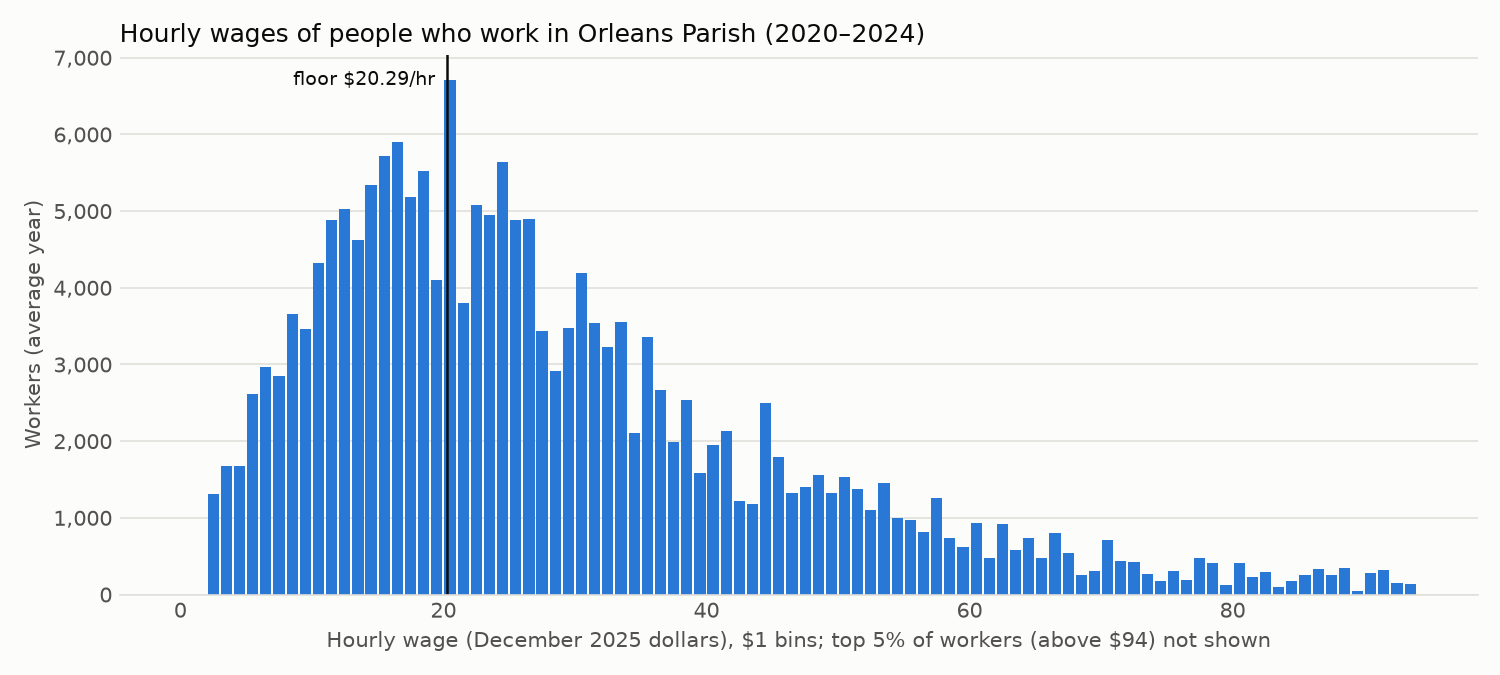
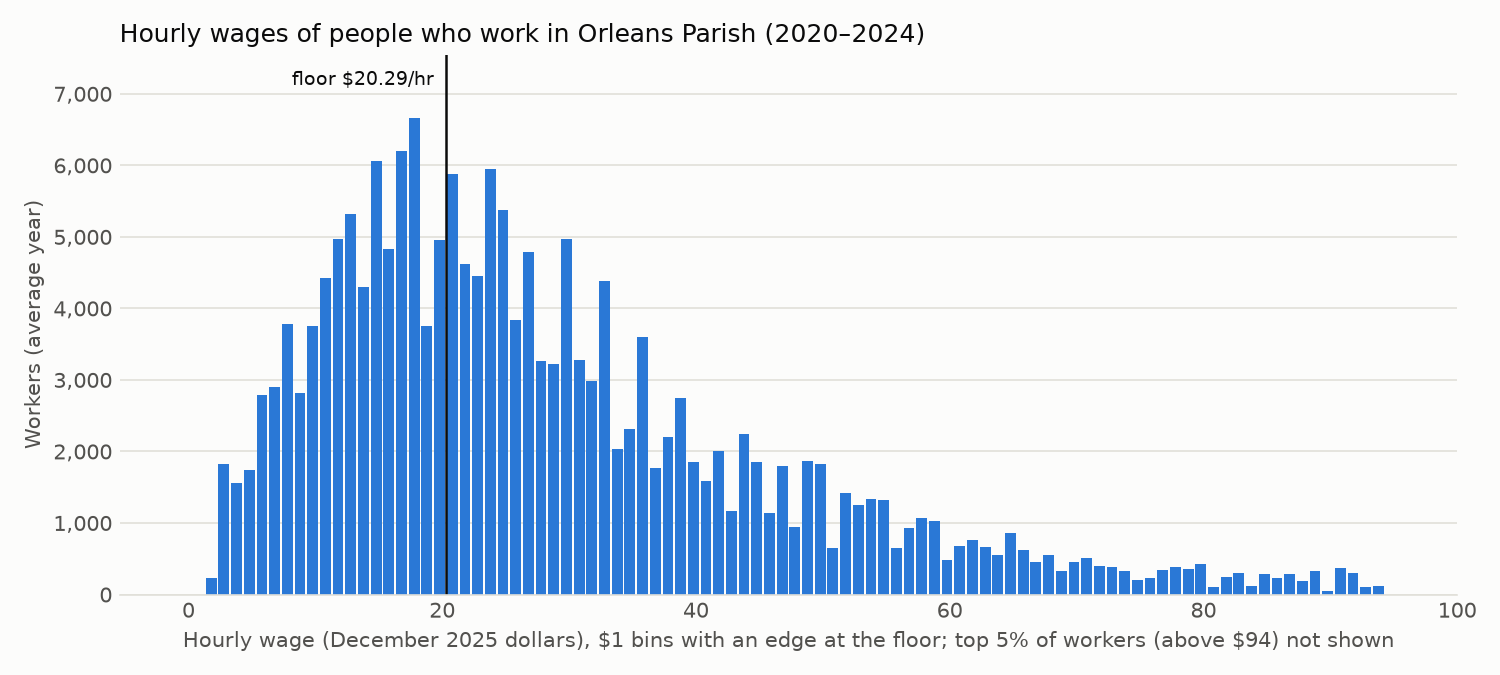
report: fix review findings (unclipped GOS axis, derived wording, floor-anchored bins)
Claude-Session: https://claude.ai/code/session_01WkMnkM78V3hXWVEUPjjTwT

diff --git a/src/nola_lw/report/results.py b/src/nola_lw/report/results.py
@@ -97,8 +97,8 @@ def headline(ctx: dict) -> tuple[str, list[str]]:
     notes: list[str] = []
 
     text = (f"In {_years(p)} (an average year), {f.n(*ps['below'])} of the {f.n(*ps['workers'])} wage and salary "
-            f"workers whose job is in Orleans Parish ({f.pct(*ps['share_below'])}) earned less than the MIT living wage "
-            f"for one adult with no children, ${ctx['floor']:.2f} an hour in {charts.price_month(cfg)} dollars. "
+            f"workers whose job is in Orleans Parish ({f.pct(*ps['share_below'])}) earned less than the MIT living-wage "
+            f"floor ({_household_label(cfg['mit']['floor_type'])}), ${ctx['floor']:.2f} an hour in {charts.price_month(cfg)} dollars. "
             f"Raising each of them to that floor for the hours they actually work would cost {f.usd(*ps['total_gap'])} "
             f"a year. That is {f.pct(tot['gap_gdp'], tot['gap_gdp_se'])} of Orleans GDP, "
             f"{f.pct(tot['gap_comp'], tot['gap_comp_se'])} of employee compensation and "
@@ -170,10 +170,11 @@ def headline(ctx: dict) -> tuple[str, list[str]]:
 
     sens = ctx["sensitivities"]
     hr, hl = _row(sens, "sensitivity", "hours_rule"), _row(sens, "sensitivity", "headline")
-    beyond = abs(hr["total_gap"] - hl["total_gap"]) > z * hl["total_gap_se"]
+    diff, moe = hr["total_gap"] - hl["total_gap"], z * hl["total_gap_se"]
     text += (f"Measured instead as annual earnings against the floor × {cfg['mit']['hours_full_time']:,} hours, the gap is "
-             f"{f.usd(hr['total_gap'], hr['total_gap_se'])}"
-             + (", well beyond the headline MOE." if beyond else ", within the headline MOE."))
+             f"{f.usd(hr['total_gap'], hr['total_gap_se'])}, {f.usd(abs(diff))} {'above' if diff > 0 else 'below'} "
+             f"the headline: " + (f"{abs(diff) / moe:.1f} times the headline's MOE." if abs(diff) > moe
+                                  else "within the headline's MOE."))
     return text, notes
 
 
@@ -259,11 +260,12 @@ def _tables(ctx: dict) -> str:
         a, b = _row(p["capacity"], "line", line), _row(s["capacity"], "line", line)
         ind = _row(p["by_industry"], "bea_line", line)
         gap_s = f.usd(b["gap"], b["gap_se"]) if b["gap"] is not None else "no sample"
+
+        def cell(c, denom):
+            return "no sample" if a["gap"] is None else rat(a, c) if a[denom] is not None else "suppressed"
         rows.append([label, f.n(ind["below"], ind["below_se"]) if ind else "no sample",
                      f.usd(a["gap"], a["gap_se"]) if a["gap"] is not None else "no sample", gap_s,
-                     rat(a, "gap_comp") if a["comp"] is not None else "suppressed",
-                     rat(a, "gap_gos") if a["gos"] is not None else "suppressed",
-                     rat(a, "gap_gos_low") if a["gos_low"] is not None else "suppressed",
+                     cell("gap_comp", "comp"), cell("gap_gos", "gos"), cell("gap_gos_low", "gos_low"),
                      f"{a['self_funding']} / {a['self_funding_low']}",
                      f"{b['self_funding']} / {b['self_funding_low']}"])
     out.append(_table(["Industry (CAGDP2)", f"Below {yp}", f"Gap {yp}", f"Gap {ys}", f"Gap ÷ comp {yp}",
@@ -322,12 +324,12 @@ def _tables(ctx: dict) -> str:
 
 
 def _caveats(ctx: dict) -> str:
-    cfg = ctx["cfg"]
+    cfg, sb = ctx["cfg"], ctx["survey_bea"]
     return (
         "\n## Caveats\n\n"
         "- **Place of work.** Every worker measure counts jobs located in Orleans Parish, wherever the worker lives, "
-        "to match BEA's place-of-work GDP and compensation. Residence enters only the leakage table and the "
-        "price pass-through allocator.\n"
+        "to match BEA's place-of-work GDP and compensation. Residence enters only the leakage table, the "
+        "Louisiana-residents-only sensitivity and the price pass-through allocator.\n"
         f"- **Full-time basis.** MIT thresholds assume {cfg['mit']['hours_full_time']:,} hours a year. The headline "
         "counts actual hours, so a part-time worker above the hourly floor can still fall far short in annual income; "
         "the hours-rule sensitivity (table 7; its effect is stated in the headline) and the annual household "
@@ -337,10 +339,13 @@ def _caveats(ctx: dict) -> str:
         "- **GOS is modeled**, not published for counties: county GDP − compensation − GDP × Louisiana's net-tax "
         "ratio for the industry. The upper bound includes depreciation and proprietors' income, so it overstates "
         "distributable profit; the lower bound subtracts the national depreciation share by industry.\n"
-        "- **Survey vs. BEA.** Survey wages run below BEA wage disbursements (headline); if the survey under-reports "
-        "pay, the gap is overstated. BEA also counts pay the survey universe misses (see checkpoint.md).\n"
+        + (f"- **Survey vs. BEA.** Survey wages run {abs(sb['pct']):.1%} below BEA wage disbursements; if the survey "
+           "under-reports pay, the gap is overstated." if sb["pct"] < 0 else
+           f"- **Survey vs. BEA.** Survey wages run {sb['pct']:.1%} above BEA wage disbursements, so survey "
+           "under-reporting is not evident in the total.")
+        + " BEA also counts pay the survey universe misses (see checkpoint.md).\n"
         f"- **Dollars.** Wages and BEA values are in {charts.price_month(cfg)} dollars (MIT's price basis), converted by "
-        f"CPI-U South ({cfg['cpi']['series']}); BEA values year by year before averaging.\n"
+        f"CPI series {cfg['cpi']['series']}; BEA values year by year before averaging.\n"
         "- **MOEs** are 90% (replicate weights, successive-difference formula). Ratios' MOEs reflect survey error "
         "in the gap only; BEA totals are treated as fixed.\n"
     )
@@ -424,8 +429,8 @@ def qa_md(ctx: dict) -> str:
     s += (f"## Crosswalk coverage\n\n{c['pairs_in_data']:,} distinct (COW, NAICSP) pairs in the universe (outliers "
           f"included), all mapped to exactly one BEA line ({c['crosswalk_rows']:,} crosswalk rows; `apply_crosswalk` "
           "raises on any missing or duplicate pair).\n\n")
-    s += (f"## GOS method validation\n\nLouisiana: max |SAGDP2 − SAGDP4 − SAGDP3 − SAGDP7| over line 1 and the 20 "
-          f"industry lines, {_years(ctx['windows']['pool'])}: ${q['gos_resid']:,.0f} (tolerance "
+    s += (f"## GOS method validation\n\nLouisiana: max |SAGDP2 − SAGDP4 − SAGDP3 − SAGDP7| over line 1 and the "
+          f"{len(ctx['labels'])} industry lines, {_years(ctx['windows']['pool'])}: ${q['gos_resid']:,.0f} (tolerance "
           f"${cfg['capacity']['gos_validation_tol_usd']:,.0f}).\n\n")
     sup = q["suppressed"]
     s += "## Industry-years with suppressed BEA cells\n\n"

diff --git a/tests/test_report.py b/tests/test_report.py
@@ -1,3 +1,5 @@
+import functools
+
 import polars as pl
 
 from nola_lw.analysis import capacity as cap
@@ -8,7 +10,8 @@ from nola_lw.report import charts
 from nola_lw.report.results import headline, write_results
 
 CFG = load_config()
-LABELS = {"79": "Accommodation and food services", "83": "Government and government enterprises"}
+LABELS = {"3": "Agriculture, forestry, fishing and hunting", "79": "Accommodation and food services",
+          "83": "Government and government enterprises"}
 FLOOR = 20.0
 THRESHOLDS = {k: FLOOR + i for i, k in enumerate(HOUSEHOLD_KEYS)}
 
@@ -19,7 +22,8 @@ def _universe(early_wage: float, late_wage: float) -> pl.DataFrame:
     rows = []
     for y in range(2020, 2025):
         wage = early_wage if y < 2022 else late_wage
-        for line, cls, res in [("79", "private", "orleans"), ("83", "public", "other_la")]:
+        for line, cls, res in [("79", "private", "orleans"), ("83", "public", "other_la"),
+                               ("3", "private", "out_of_state")]:
             rows.append({"year": str(y), "bea_line": line, "cow_class": cls, "residence": res, "src": "la",
                          "household": HOUSEHOLD_KEYS[0], "wage_hr": wage, "hours": 2000.0, "earnings": wage * 2000})
     u = pl.DataFrame(rows)
@@ -27,27 +31,40 @@ def _universe(early_wage: float, late_wage: float) -> pl.DataFrame:
 
 
 def _panel(gos_79: float) -> pl.DataFrame:
+    """Line 3 has suppressed compensation (so null GOS), as in BEA CAINC6N 2024."""
     return pl.DataFrame({
-        "line": ["79", "83", "total", "private"],
-        "gdp": [1e9, 1e9, 2e9, 1e9], "comp": [5e8, 8e8, 1.3e9, 5e8], "tax_ratio": [0.1, 0.0, 0.05, 0.1],
-        "cfc_share": [0.1, None, None, None], "gos": [gos_79, 2e8, 6e8, 4e8], "gos_low": [gos_79, 0.0, 4e8, 3e8],
-        "wages": [None, None, 1e9, None]})
+        "line": ["3", "79", "83", "total", "private"],
+        "gdp": [1e8, 1e9, 1e9, 2e9, 1e9], "comp": [None, 5e8, 8e8, 1.3e9, 5e8],
+        "tax_ratio": [0.1, 0.1, 0.0, 0.05, 0.1], "cfc_share": [0.1, 0.1, None, None, None],
+        "gos": [None, gos_79, 2e8, 6e8, 4e8], "gos_low": [None, gos_79, 0.0, 4e8, 3e8],
+        "wages": [None, None, None, 1e9, None]})
 
 
-def _ctx(early_wage=15.0, late_wage=15.0, gos_79=4e8) -> dict:
+@functools.cache
+def _survey_windows(early_wage: float, late_wage: float) -> dict:
+    """The survey-side (expensive, replicate-weight) window pieces; the GOS-dependent capacity table
+    is rebuilt per call to `_ctx`. gos_tests only reads the total/private/government rows, which
+    `gos_79` doesn't touch."""
     u = _universe(early_wage, late_wage)
     windows = {}
     for name in ("pool", "subset"):
         years = CFG["years"][name]
         sub = year_subset(u, years, CFG["years"]["pool"])
         g = add_floor_gap(sub, FLOOR)
-        pm = _panel(gos_79)
         windows[name] = {"years": years, "summary": floor_summary(g), "by_industry": summary_by(g, "bea_line"),
                          "by_cow": summary_by(g, "cow_class"), "leakage": leakage(g),
                          "households": household_table(sub, THRESHOLDS, CFG["mit"]["hours_full_time"],
                                                        HOUSEHOLD_KEYS[0]),
-                         "capacity": cap.capacity_table(cap.gap_by_line(g, CFG), pm, "83"),
-                         "gos_tests": cap.gos_tests(g, pm, CFG)}
+                         "gap_by_line": cap.gap_by_line(g, CFG), "gos_tests": cap.gos_tests(g, _panel(0.0), CFG)}
+    return {"u": u, "windows": windows}
+
+
+@functools.cache
+def _ctx(early_wage=15.0, late_wage=15.0, gos_79=4e8) -> dict:
+    base = _survey_windows(early_wage, late_wage)
+    u = base["u"]
+    windows = {name: w | {"capacity": cap.capacity_table(w["gap_by_line"], _panel(gos_79), "83")}
+               for name, w in base["windows"].items()}
     s = windows["pool"]["summary"]
     sens = pl.DataFrame([{"sensitivity": n, "variant": n, "workers_below": s["below"][0], "workers_below_se": 1.0,
                           "total_gap": s["total_gap"][0] * k, "total_gap_se": 1.0, "factor": 1.0}
@@ -66,11 +83,25 @@ def test_results_has_all_sections(tmp_path):
               "## 4. Industries and the self-funding test", "## 5. Commuter leakage",
               "## 6. Household types", "## 7. Sensitivities"]:
         assert h in text
+    assert "| Agriculture, forestry, fishing and hunting |" in text
+    assert "suppressed / suppressed" in text
 
 
 def test_headline_names_failing_industries():
     text, _ = headline(_ctx(gos_79=1.0))
     assert "Accommodation and food services (both bounds)" in text
+
+
+def test_headline_expected_failure_that_passes():
+    text, _ = headline(_ctx())
+    assert "Accommodation and food services, which SPEC §6 expected to fail, passes both bounds" in text
+
+
+def test_gap_vs_gos_axis_covers_failing_bar():
+    cap_ = _ctx(gos_79=5e4)["windows"]["pool"]["capacity"]
+    top = cap_.filter(pl.col("line") == "79")["gap_gos"][0]
+    assert top > 1  # fails with positive GOS
+    assert charts.ratio_axis_max(cap_) >= top * 100
 
 
 def test_headline_flags_window_difference():

diff --git a/src/nola_lw/report/charts.py b/src/nola_lw/report/charts.py
@@ -1,4 +1,5 @@
 """SPEC §10.3: gap vs. GOS by industry (bar), and the hourly wage distribution with the floor marked."""
+import math
 import textwrap
 from datetime import datetime
 from pathlib import Path
@@ -36,6 +37,12 @@ def _style(ax) -> None:
     ax.set_axisbelow(True)
 
 
+def ratio_axis_max(capacity: pl.DataFrame) -> float:
+    """x-axis limit (%) for gap_vs_gos: past the 100% fail line and past every bar, so none is clipped."""
+    top = max((v for c in ("gap_gos", "gap_gos_low") for v in capacity[c] if v is not None), default=0.0)
+    return max(105.0, 105.0 * top)
+
+
 def gap_vs_gos(capacity: pl.DataFrame, labels: dict[str, str], cfg, out: Path = OUT) -> Path:
     """Horizontal bars: each industry's gap as % of its modeled GOS, upper and lower bound. A bar
     past 100% fails self-funding. Industries failing on GOS ≤ 0 sit on top, suppressed ones at the
@@ -64,7 +71,7 @@ def gap_vs_gos(capacity: pl.DataFrame, labels: dict[str, str], cfg, out: Path = 
     ax.axvline(100, color=INK, linewidth=1)
     ax.text(99, df.height - 0.5, "gap = GOS: fails beyond ", fontsize=8, color=INK, va="bottom", ha="right")
     ax.set_yticks(list(y), df["label"].to_list(), fontsize=8, color=INK)
-    ax.set_xlim(0, 105)
+    ax.set_xlim(0, ratio_axis_max(df))
     ax.set_xlabel("Floor gap as % of the industry's modeled gross operating surplus (GOS)", color=INK2)
     ax.legend(loc="lower right", frameon=False, fontsize=8, labelcolor=INK2)
     fig.suptitle(f"Floor gap vs. modeled GOS, by industry ({_years(cfg)} average)", x=0.01, ha="left", color=INK)
@@ -83,16 +90,19 @@ def wage_distribution(u: pl.DataFrame, floor: float, cfg, out: Path = OUT) -> Pa
     cum = s["PWGTP"].cum_sum() / s["PWGTP"].sum()
     xmax = s.filter(cum >= r["hist_max_quantile"])["wage_hr"][0]
     shown = s.filter(pl.col("wage_hr") <= xmax)
-    bins = [b * r["hist_bin_usd"] for b in range(int(xmax // r["hist_bin_usd"]) + 2)]
+    bw = r["hist_bin_usd"]
+    start = floor - math.ceil(floor / bw) * bw  # edges anchored at the floor: no bin mixes below and above
+    bins = [start + k * bw for k in range(math.ceil((xmax - start) / bw) + 2)]
     fig, ax = plt.subplots(figsize=(10, 4.5), facecolor=SURFACE)
     _style(ax)
     ax.grid(axis="x", visible=False)
     ax.grid(axis="y", color=GRID, linewidth=0.8)
     ax.hist(shown["wage_hr"], bins=bins, weights=shown["PWGTP"], color=SERIES[0], rwidth=0.85)
     ax.axvline(floor, color=INK, linewidth=1.2)
+    ax.set_ylim(0, ax.get_ylim()[1] * 1.08)  # headroom so the floor label clears the bars
     ax.text(floor, ax.get_ylim()[1] * 0.97, f"floor ${floor:.2f}/hr  ", color=INK, va="top", ha="right", fontsize=9)
     ax.yaxis.set_major_formatter(matplotlib.ticker.FuncFormatter(lambda v, _: f"{v:,.0f}"))
-    ax.set_xlabel(f"Hourly wage ({price_month(cfg)} dollars), ${r['hist_bin_usd']} bins; "
+    ax.set_xlabel(f"Hourly wage ({price_month(cfg)} dollars), ${r['hist_bin_usd']} bins with an edge at the floor; "
                   f"top {1 - r['hist_max_quantile']:.0%} of workers (above ${xmax:.0f}) not shown", color=INK2)
     ax.set_ylabel("Workers (average year)", color=INK2)
     ax.set_title(f"Hourly wages of people who work in Orleans Parish ({_years(cfg)})", loc="left", color=INK)

diff --git a/data/out/results.md b/data/out/results.md
@@ -4,7 +4,7 @@ Place of work, ACS PUMS 2020–2024 (average year) with 2022–2024 alongside; M
 
 ## Headline
 
-In 2020–2024 (an average year), 72,897 ± 3,050 of the 195,275 ± 4,502 wage and salary workers whose job is in Orleans Parish (37.3% ± 1.2 pp) earned less than the MIT living wage for one adult with no children, $20.29 an hour in December 2025 dollars. Raising each of them to that floor for the hours they actually work would cost $953.9M ± $53.8M a year. That is 3.1% ± 0.2 pp of Orleans GDP, 5.4% ± 0.3 pp of employee compensation and 6.5% ± 0.4 pp of wage and salary disbursements. Against modeled gross operating surplus (GOS, upper bound; lower bound nets out depreciation): (a) the private and nonprofit gap is 7.9% ± 0.5 pp of private-industry GOS (11.9% ± 0.7 pp at the lower bound), and (b) the all-sector gap is 8.3% ± 0.5 pp of total GOS (13.8% ± 0.8 pp at the lower bound). The government workers' gap would be a 3.0% ± 0.4 pp raise to government compensation. By the self-funding test (an industry fails when its gap exceeds its own GOS), 3 industries fail: Management of companies and enterprises (lower bound only)[^gos-low], Educational services (lower bound only)[^gos-low] and Arts, entertainment, and recreation (both bounds)[^gos-76][^gos-low]. Accommodation and food services, which SPEC §6 expected to fail, passes both bounds: its gap is 24.6% ± 2.9 pp of its upper-bound GOS and 31.2% ± 3.6 pp of its lower bound. Agriculture, forestry, fishing and hunting and Mining, quarrying, and oil and gas extraction cannot be tested because BEA suppresses a needed cell. The same industries fail on 2022–2024 averages. The 2022–2024 window gives 75,843 ± 3,792 workers below the floor and a $962.7M ± $63.3M gap; their 90% intervals overlap, so the two windows do not differ beyond their MOEs. Survey-reported wages for this universe fall 10.3% short of BEA wage and salary disbursements (3.9% short like-for-like, counting salaries that owners of incorporated businesses pay themselves, as BEA does); to the extent the survey under-reports pay, the gap is overstated. Measured instead as annual earnings against the floor × 2,080 hours, the gap is $1,639.3M ± $66.1M, well beyond the headline MOE.
+In 2020–2024 (an average year), 72,897 ± 3,050 of the 195,275 ± 4,502 wage and salary workers whose job is in Orleans Parish (37.3% ± 1.2 pp) earned less than the MIT living-wage floor (1 adult, 0 children), $20.29 an hour in December 2025 dollars. Raising each of them to that floor for the hours they actually work would cost $953.9M ± $53.8M a year. That is 3.1% ± 0.2 pp of Orleans GDP, 5.4% ± 0.3 pp of employee compensation and 6.5% ± 0.4 pp of wage and salary disbursements. Against modeled gross operating surplus (GOS, upper bound; lower bound nets out depreciation): (a) the private and nonprofit gap is 7.9% ± 0.5 pp of private-industry GOS (11.9% ± 0.7 pp at the lower bound), and (b) the all-sector gap is 8.3% ± 0.5 pp of total GOS (13.8% ± 0.8 pp at the lower bound). The government workers' gap would be a 3.0% ± 0.4 pp raise to government compensation. By the self-funding test (an industry fails when its gap exceeds its own GOS), 3 industries fail: Management of companies and enterprises (lower bound only)[^gos-low], Educational services (lower bound only)[^gos-low] and Arts, entertainment, and recreation (both bounds)[^gos-76][^gos-low]. Accommodation and food services, which SPEC §6 expected to fail, passes both bounds: its gap is 24.6% ± 2.9 pp of its upper-bound GOS and 31.2% ± 3.6 pp of its lower bound. Agriculture, forestry, fishing and hunting and Mining, quarrying, and oil and gas extraction cannot be tested because BEA suppresses a needed cell. The same industries fail on 2022–2024 averages. The 2022–2024 window gives 75,843 ± 3,792 workers below the floor and a $962.7M ± $63.3M gap; their 90% intervals overlap, so the two windows do not differ beyond their MOEs. Survey-reported wages for this universe fall 10.3% short of BEA wage and salary disbursements (3.9% short like-for-like, counting salaries that owners of incorporated businesses pay themselves, as BEA does); to the extent the survey under-reports pay, the gap is overstated. Measured instead as annual earnings against the floor × 2,080 hours, the gap is $1,639.3M ± $66.1M, $685.4M above the headline: 12.7 times the headline's MOE.
 
 Reading the tables: "—" means not defined[^dash]; "suppressed" means BEA withheld a needed cell; "no sample" means no survey workers in that group. No unknown value is printed as 0.
 
@@ -159,12 +159,12 @@ All rows use 2020–2024 unless the row says otherwise. "Beyond MOE" = the chang
 
 ## Caveats
 
-- **Place of work.** Every worker measure counts jobs located in Orleans Parish, wherever the worker lives, to match BEA's place-of-work GDP and compensation. Residence enters only the leakage table and the price pass-through allocator.
+- **Place of work.** Every worker measure counts jobs located in Orleans Parish, wherever the worker lives, to match BEA's place-of-work GDP and compensation. Residence enters only the leakage table, the Louisiana-residents-only sensitivity and the price pass-through allocator.
 - **Full-time basis.** MIT thresholds assume 2,080 hours a year. The headline counts actual hours, so a part-time worker above the hourly floor can still fall far short in annual income; the hours-rule sensitivity (table 7; its effect is stated in the headline) and the annual household columns (table 6) show this.
 - **Tips and cash pay** are in `WAGP` only as reported, and are likely undercounted for accommodation and food services, which would overstate that industry's gap.
 - **GOS is modeled**, not published for counties: county GDP − compensation − GDP × Louisiana's net-tax ratio for the industry. The upper bound includes depreciation and proprietors' income, so it overstates distributable profit; the lower bound subtracts the national depreciation share by industry.
-- **Survey vs. BEA.** Survey wages run below BEA wage disbursements (headline); if the survey under-reports pay, the gap is overstated. BEA also counts pay the survey universe misses (see checkpoint.md).
-- **Dollars.** Wages and BEA values are in December 2025 dollars (MIT's price basis), converted by CPI-U South (CUUR0300SA0); BEA values year by year before averaging.
+- **Survey vs. BEA.** Survey wages run 10.3% below BEA wage disbursements; if the survey under-reports pay, the gap is overstated. BEA also counts pay the survey universe misses (see checkpoint.md).
+- **Dollars.** Wages and BEA values are in December 2025 dollars (MIT's price basis), converted by CPI series CUUR0300SA0; BEA values year by year before averaging.
 - **MOEs** are 90% (replicate weights, successive-difference formula). Ratios' MOEs reflect survey error in the gap only; BEA totals are treated as fixed.
 
 [^gos-76]: Modeled upper-bound GOS for Arts, entertainment, and recreation is negative (−$4.8M a year): the method subtracts Louisiana's ratio of taxes on production less subsidies to GDP for this line (31%) from an Orleans line whose compensation is already 70% of its GDP. It is reported as a failure under the SPEC §6 method. Louisiana's arts-line tax ratio plausibly reflects casino gaming taxes, which may not fall on Orleans's arts line in the same proportion.
